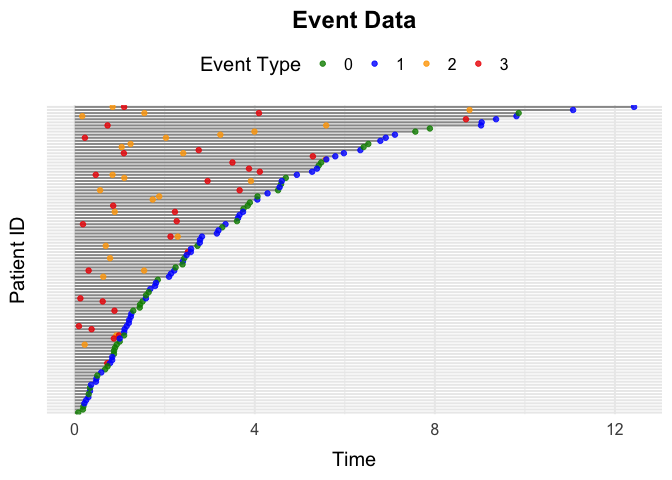
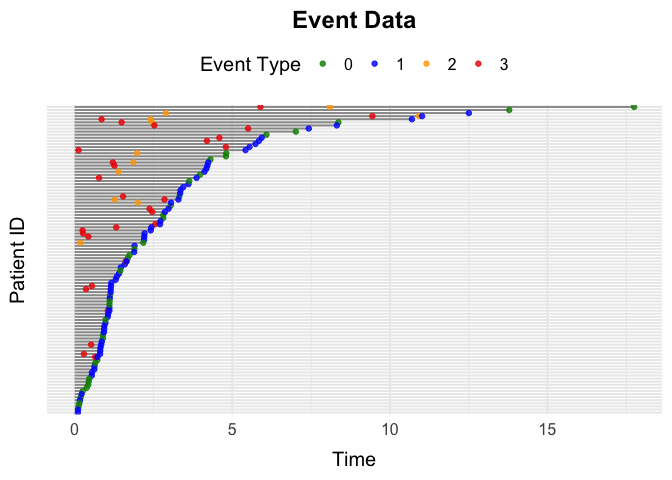
readme

diff --git a/README.md b/README.md
@@ -50,14 +50,14 @@ The simulated data looks like
 ``` r
 head(data)
 #> Key: <ID>
-#>       ID       Time Delta       L0     L    A0     A
-#>    <int>      <num> <num>    <num> <num> <int> <num>
-#> 1:     1 0.09302029     3 69.34624     0     1     0
-#> 2:     1 1.15310728     1 69.34624     1     1     0
-#> 3:     2 0.68901160     2 69.89826     0     0     0
-#> 4:     2 2.72769569     0 69.89826     0     0     1
-#> 5:     3 1.78458962     1 37.39783     0     1     0
-#> 6:     4 0.22118200     2 32.73879     0     0     0
+#>       ID      Time Delta       L0     L    A0     A
+#>    <int>     <num> <num>    <num> <num> <int> <num>
+#> 1:     1 1.0487683     3 69.90414     0     0     0
+#> 2:     1 1.0995389     1 69.90414     1     0     0
+#> 3:     2 0.3579570     3 61.37030     0     0     0
+#> 4:     2 1.1411689     1 61.37030     1     0     0
+#> 5:     3 0.5415522     1 62.38574     0     0     0
+#> 6:     4 1.1220836     0 32.82778     0     1     0
 ```
 
 One can visualize the data by
@@ -70,4 +70,24 @@ plotEventData(data)
 
 ## Example 2: Survival Data
 
+You can simulate data from a survival setting with the function
+`simSurvData`.
+
+``` r
+data <- simSurvData(100)
+plotEventData(data, title = "Survival Data")
+```
+
+<img src="man/figures/README-unnamed-chunk-5-1.png" width="100%" />
+
 ## Example 3: Competing Risk Data
+
+You can simulate data from a competing risk setting with the function
+`simCRdata`.
+
+``` r
+data <- simCRdata(100)
+plotEventData(data, title = "Competing Risk Data")
+```
+
+<img src="man/figures/README-unnamed-chunk-6-1.png" width="100%" />
